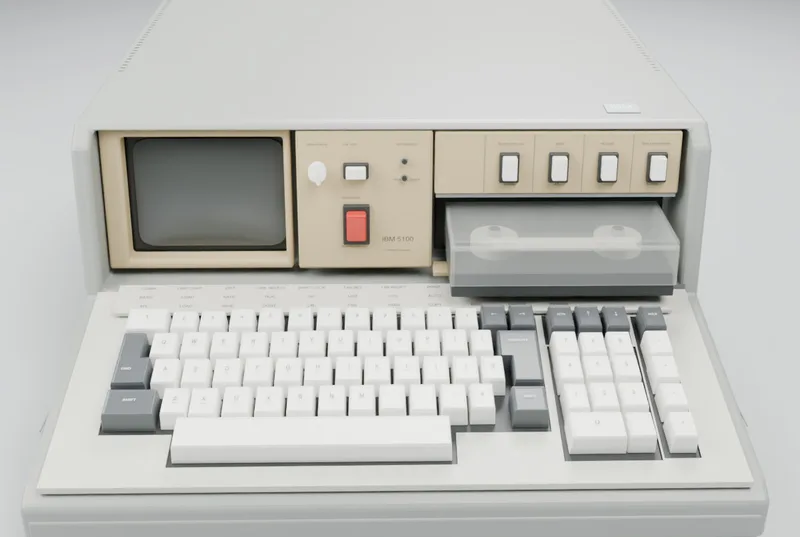
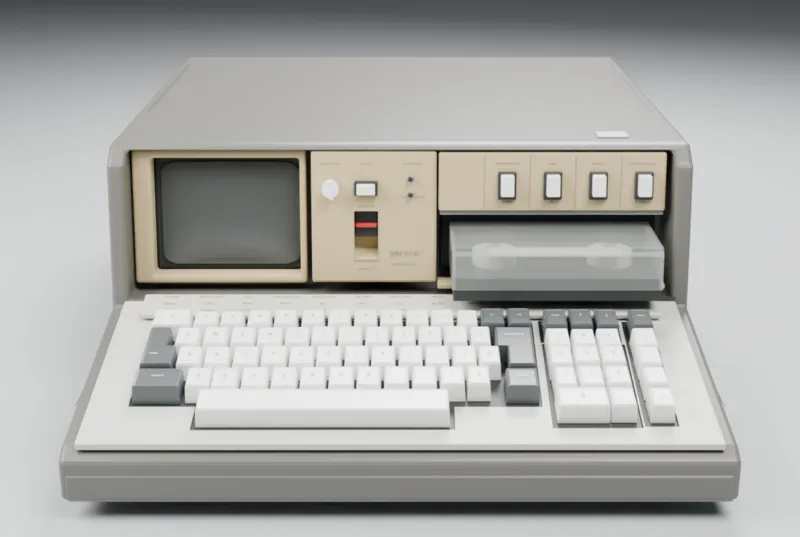
feat(pages): (B) '75's CRT and the timeline use the owner's improved 5100 model
Owner: "look at latest improved model ... (and click the Front button)
for the frame when typing in B'75 live demo, and for the timeline
thumbnail". From the model's own front render (clean/front.png on the
owner's local server):

- pages/machines/5100-front.webp, 1200x900, replaces 5100-crt.webp as
  the B'75 frame; crt.js has its glass (238,280)-(450,438) and a bezel
  of 18 pixels for the zoom; demo.html places the glass and the glare
  scrim to match; sw.js caches it.
- pages/machines/5100.webp, the timeline's picture, is the same render
  cropped to 800x537.

Checked by hand in Chrome, zoomed and whole.

diff --git a/pages/demo.html b/pages/demo.html
@@ -162,11 +162,11 @@
   #crt.zoomed { background: #000; }
   body.crt-zoomed header { display: none; }
   #crt .machine {
-    position: absolute; background: url("machines/5100-crt.webp") center / 100% 100% no-repeat;
+    position: absolute; background: url("machines/5100-front.webp") center / 100% 100% no-repeat;
   }
   #crt .glass {
-    position: absolute; left: 27.607%; top: 23.567%; width: 33.742%; height: 43.949%;
-    box-sizing: border-box; padding: 2.5% 2.8%; border-radius: 7% / 9%;
+    position: absolute; left: 19.833%; top: 31.111%; width: 17.667%; height: 17.556%;
+    box-sizing: border-box; padding: 2.5% 2.8%; border-radius: 10% / 13%;
     display: flex; flex-direction: column; overflow: hidden;
     background: radial-gradient(ellipse at 50% 45%, #10140f, #050605);
     color: #cfeccf; text-shadow: 0 0 .35em rgba(150, 230, 160, .45); line-height: 1.2;
@@ -176,7 +176,7 @@
   #crt .scrim {
     position: absolute; inset: 0; pointer-events: none;
     background: inherit; opacity: .4; mix-blend-mode: screen;
-    clip-path: inset(23.567% 38.650% 32.484% 27.607% round 7% / 9%);
+    clip-path: inset(31.111% 62.5% 51.333% 19.833% round 1.77% / 2.28%);
   }
   #crt .zoom {
     position: absolute; right: .5rem; bottom: .5rem;

diff --git a/pages/sw.js b/pages/sw.js
@@ -31,7 +31,7 @@ const SHELL = [
   "timeline/apl_timeline_web.js", "timeline/apl_timeline_web_bg.wasm",
   "machines/70.webp", "machines/5100.webp", "machines/80.webp", "machines/83.webp",
   "machines/1053.webp", "machines/029.webp", "machines/3279g.webp", "machines/cor24.webp",
-  "machines/sw-mlpl.webp", "machines/xetal.webp", "machines/5100-crt.webp", "machines/trs80-monitor.webp", "version.txt", "build-info.json", "libraries.json", "manifest.json",
+  "machines/sw-mlpl.webp", "machines/xetal.webp", "machines/5100-front.webp", "machines/trs80-monitor.webp", "version.txt", "build-info.json", "libraries.json", "manifest.json",
   "apl.js", "board.js", "crt.js", "lines.js", "worker.js", "wasm/apl_wasm.js", "wasm/apl_wasm_bg.wasm",
   "keymap.json", "glyph-names.json", "board-keys.json", "board.json",
   "overstrikes.json",

diff --git a/pages/crt.js b/pages/crt.js
@@ -8,8 +8,8 @@
 // without it.
 
 // The render's size, and where its glass is in it, in its pixels.
-const RENDER = { width: 1630, height: 942 };
-const GLASS = { left: 450, top: 222, right: 1000, bottom: 636 };
+const RENDER = { width: 1200, height: 900 };
+const GLASS = { left: 238, top: 280, right: 450, bottom: 438 };
 // The 5100's screen is 64 characters wide; APL385's are .6em.
 const COLUMNS = 64 * 0.6 + 1;
 // Off, the whole machine, or zoomed, between visits: "off", "on",
@@ -18,7 +18,7 @@ const COLUMNS = 64 * 0.6 + 1;
 const KEPT = "apl-crt-view";
 // How much of the bezel a zoom keeps round the glass, in the
 // render's pixels.
-const BEZEL = 48;
+const BEZEL = 18;
 
 // Build the view, hang its switch on the bar, and bring it back as
 // the last visit left it.

diff --git a/docs/plan.md b/docs/plan.md
@@ -1424,6 +1424,8 @@ translucent scrim over the text. Open: the render's file, and its
 panel's maker's name, since the UI names no maker (mode names).
 Resolved in the step: the render is the one the owner attached
 (`pages/machines/5100-crt.webp`), and its panel stays as rendered --
+later replaced by the front view of the owner's improved model
+(`pages/machines/5100-front.webp`), also the timeline's picture --
 it is the owner's picture, and the page already calls (B) "IBM
 5100-inspired". During it the owner reported (C)'s screen "is only
 using the top third or quarter of the screen. Can we use most of the
